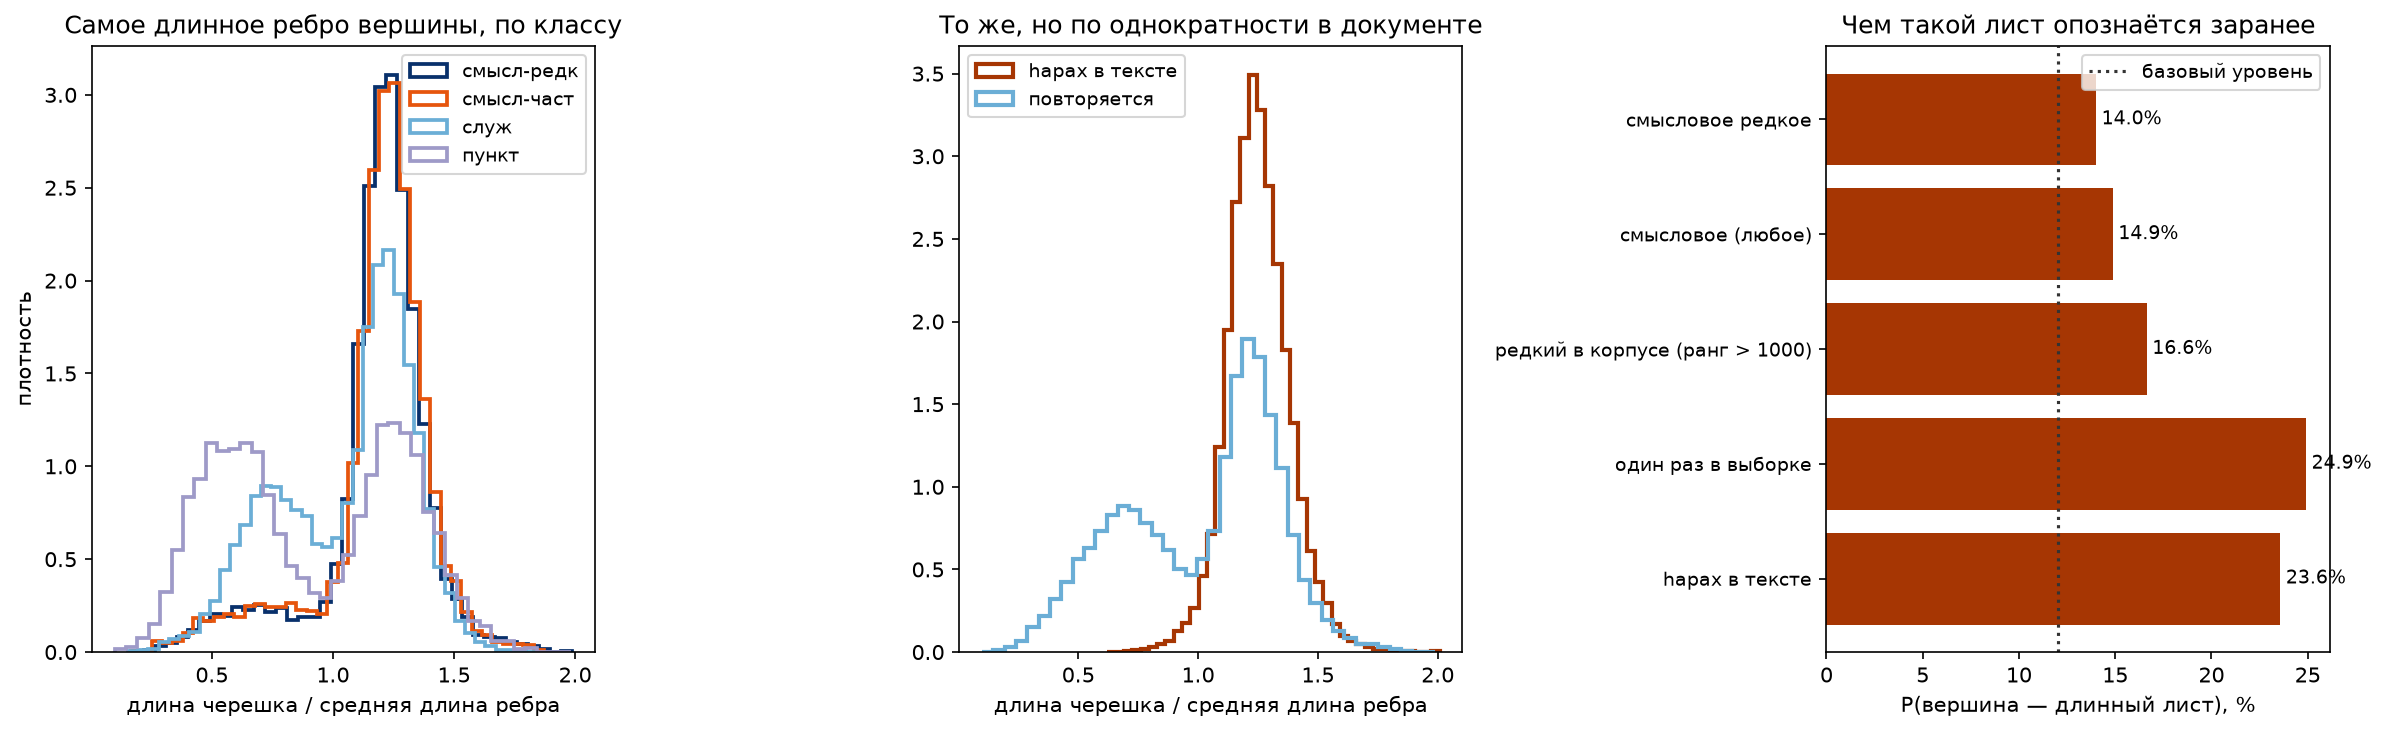
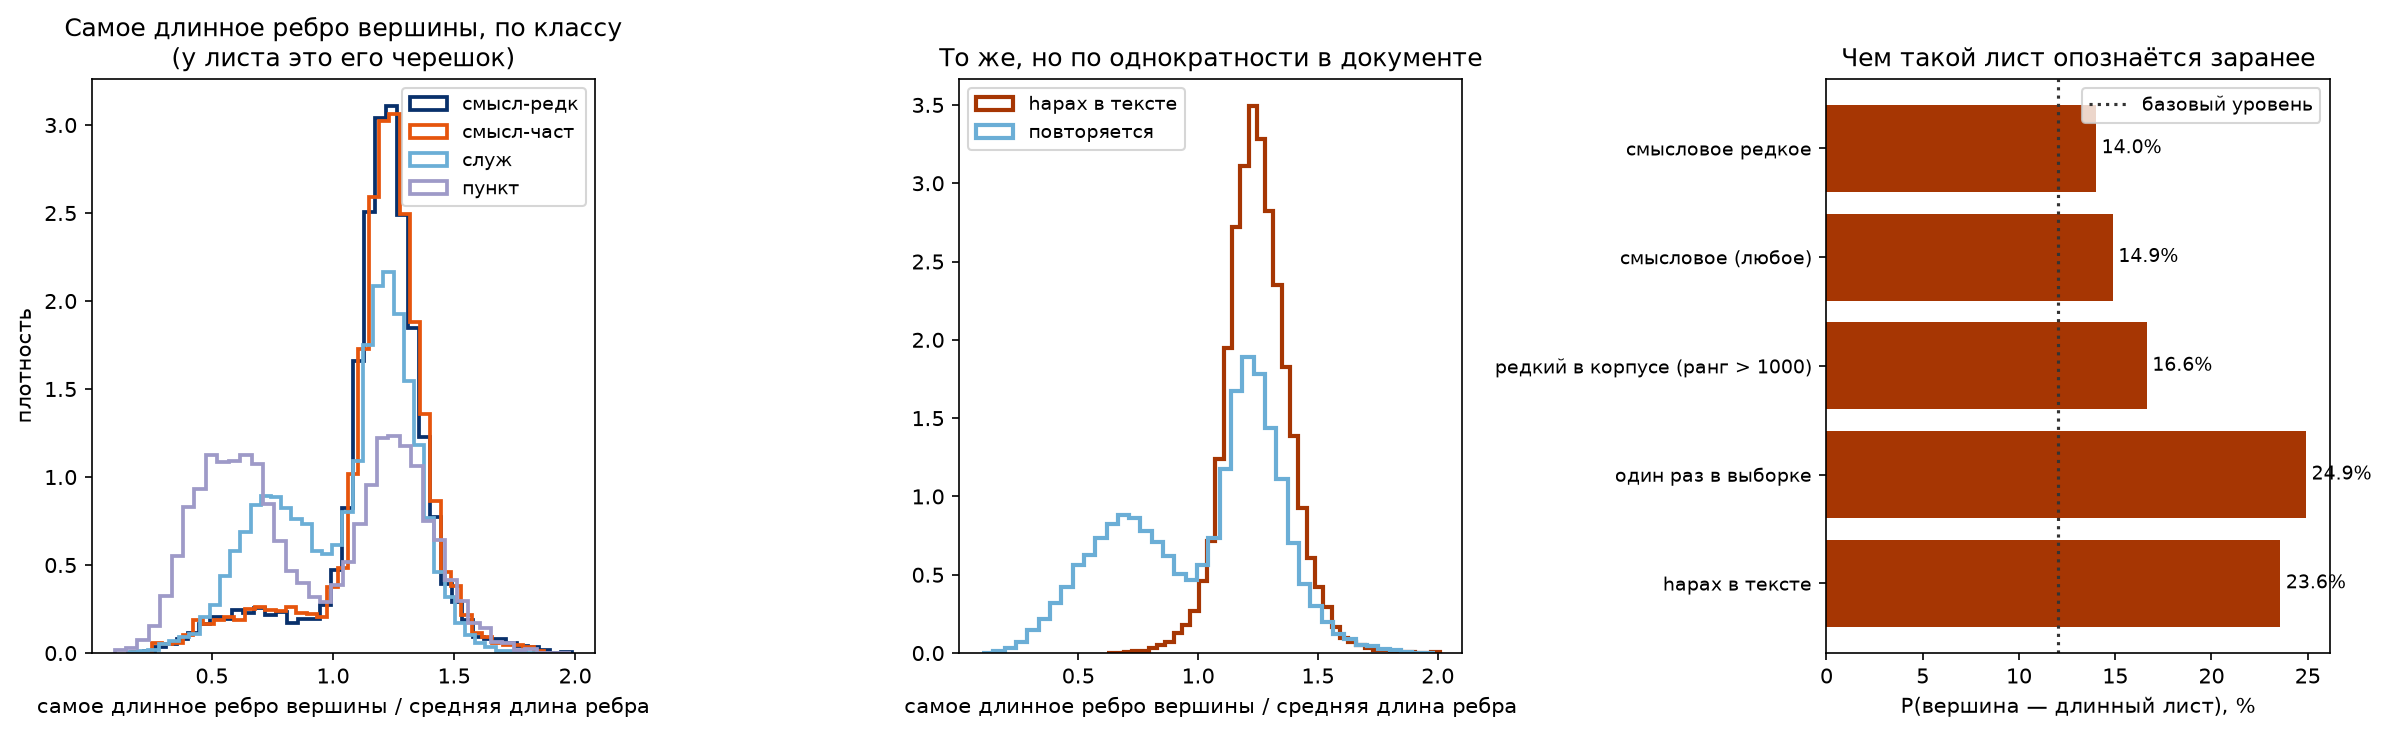
Name the stalk column for what it holds, and define the word in the report
The column was filled for every vertex but holds a stalk only where the degree
is one; elsewhere it is merely the longest incident edge, so the histogram axis
was labelled for the special case while the data was the general one. The
numbers are unaffected -- long-stalk leaves are selected on degree 1, where the
two coincide -- but the label was wrong and the report never defined the word.

Also states the trough the bimodality is cut at: below one mean edge length lie
43.1% of repeated tokens and 2.6% of hapax ones.

diff --git a/phdq_ext/experiments/leaf_class.py b/phdq_ext/experiments/leaf_class.py
@@ -78,6 +78,9 @@ def vertices(text, emb, ranks, u_sink, L=cfg.L_DEFAULT, seed=0):
     n = len(t)
     deg = np.bincount(np.concatenate([m.row, m.col]), minlength=n)
     # every vertex's longest incident edge; for a leaf this is its only edge
+    # for a leaf this is its only edge -- its stalk. For an interior vertex it
+    # is merely the longest of several, so the column is named for what it holds
+    # everywhere, and "черешок" is used only where the degree is 1.
     longest = np.zeros(n)
     for a, b, w in zip(m.row, m.col, m.data):
         longest[a] = max(longest[a], w)
@@ -87,10 +90,10 @@ def vertices(text, emb, ranks, u_sink, L=cfg.L_DEFAULT, seed=0):
         "токен": t, "класс": cls, "норма": nrm,
         "лог_ранг": np.log([ranks.get(x, len(ranks)) for x in t]),
         "степень": deg,
-        "черешок": longest,
-        "отн_черешок": longest / m.data.mean(),
+        "макс_ребро": longest,
+        "отн_макс_ребро": longest / m.data.mean(),
         "лист": deg == 1,
-        "длинный лист": (deg == 1) & (longest >= cut),
+        "длинный лист": (deg == 1) & (longest >= cut),  # черешок длинный
         "hapax в тексте": [full[x] == 1 for x in t],
         "один в выборке": [insample[x] == 1 for x in t],
     })
@@ -164,9 +167,9 @@ def main():
 
     print("\nсвойства вершины: длинные листья против остальных\n")
     cmpt = pd.DataFrame({
-        "длинный лист": V[L][["норма", "лог_ранг", "отн_черешок",
+        "длинный лист": V[L][["норма", "лог_ранг", "отн_макс_ребро",
                               "hapax в тексте", "один в выборке"]].mean(),
-        "прочие": V[~L][["норма", "лог_ранг", "отн_черешок",
+        "прочие": V[~L][["норма", "лог_ранг", "отн_макс_ребро",
                          "hapax в тексте", "один в выборке"]].mean(),
     })
     print(cmpt.round(3).to_string())
@@ -213,11 +216,11 @@ def plot(V, comp, P):
     for c, col in [("смысл-редк", "#08306b"), ("смысл-част", "#e6550d"),
                    ("служ", "#6baed6"), ("пункт", "#9e9ac8")]:
         g = V[V["класс"] == c]
-        a.hist(g["отн_черешок"].clip(upper=2.2), bins=40, histtype="step",
+        a.hist(g["отн_макс_ребро"].clip(upper=2.2), bins=40, histtype="step",
                lw=1.8, color=col, label=c, density=True)
-    a.set_xlabel("длина черешка / средняя длина ребра")
+    a.set_xlabel("самое длинное ребро вершины / средняя длина ребра")
     a.set_ylabel("плотность")
-    a.set_title("Самое длинное ребро вершины, по классу")
+    a.set_title("Самое длинное ребро вершины, по классу\n(у листа это его черешок)")
     a.legend(fontsize=9)
 
     a = ax[1]
@@ -225,9 +228,9 @@ def plot(V, comp, P):
     for name, mask, col in [
             ("hapax в тексте", W["hapax в тексте"], "#a63603"),
             ("повторяется", ~W["hapax в тексте"], "#6baed6")]:
-        a.hist(W[mask]["отн_черешок"].clip(upper=2.2), bins=40,
+        a.hist(W[mask]["отн_макс_ребро"].clip(upper=2.2), bins=40,
                histtype="step", lw=2, color=col, label=name, density=True)
-    a.set_xlabel("длина черешка / средняя длина ребра")
+    a.set_xlabel("самое длинное ребро вершины / средняя длина ребра")
     a.set_title("То же, но по однократности в документе")
     a.legend(fontsize=9)
 

diff --git a/phdq_ext/results/GEOMETRY.md b/phdq_ext/results/GEOMETRY.md
@@ -252,8 +252,11 @@ Kamada-Kawai по метрике дерева (приблизительное: 7
 в отдельный класс **вершин**, и польза от него будет только если его можно
 назвать заранее, по свойству токена, а не по длине черешка (иначе это просто
 пересказ длины ребра). `leaf_class.py`, 120 текстов, 3 зерна, 72 360 вершин.
-Лист на длинном черешке — степень 1 и черешок выше 80-го перцентиля длин своего
-текста; таких 12.0% вершин (листьев вообще 44.5%).
+**Черешок** — единственное ребро, которым лист держится на дереве: у вершины
+степени 1 ребро одно, оно и есть черешок. **Лист на длинном черешке** — степень
+1 и черешок выше 80-го перцентиля длин рёбер своего текста; длины везде делятся
+на среднюю длину ребра текста, иначе тексты с разным общим разбросом несравнимы.
+Таких вершин 12.0% (листьев вообще 44.5%).
 
 **Класс токена его не опознаёт.** Обогащение среди длинных листьев:
 
@@ -303,9 +306,10 @@ Kamada-Kawai по метрике дерева (приблизительное: 7
 плоха.
 
 **И это действительно отдельное явление, а не хвост.** Распределение самого
-длинного ребра вершины бимодально (средняя панель рисунка), и однократность режет
-его почти точно по впадине: у hapax левой моды практически нет, у повторяющихся
-токенов есть обе.
+длинного ребра вершины (у листа это его черешок, у внутренней вершины — самое
+длинное из нескольких) бимодально, впадина около 1.0 средней длины, и
+однократность режет его почти точно по ней: слева от 1.0 лежат **43.1%**
+повторяющихся токенов и **2.6%** hapax. Средняя панель рисунка.
 
 Механизм отсюда читается прямо и связывает оба конца распределения. У токена с
 двойником ближайший сосед — он же, ребро короткое (мелкий конец, косинус 0.91).
